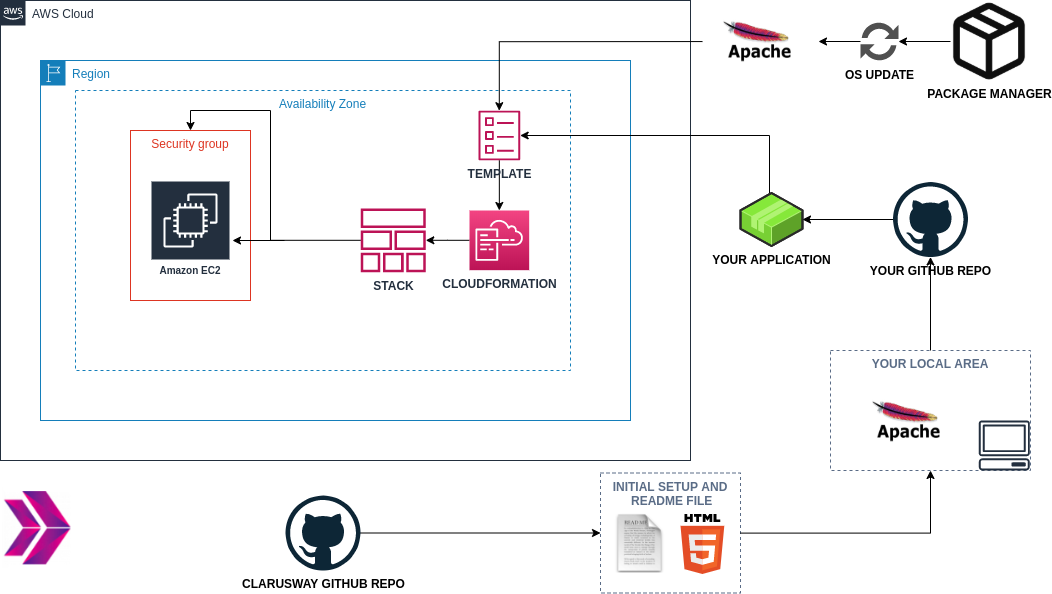
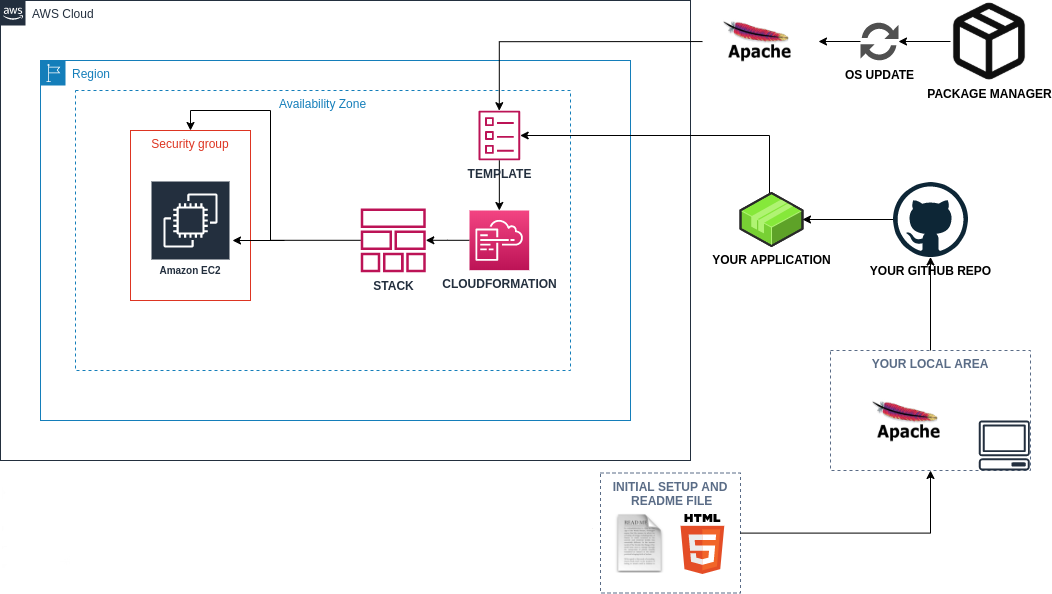
files modified

Changed region(s): [[0.2129, 0.8182, 0.5779, 1.0], [0.0, 0.8182, 0.0913, 0.9697]]

diff --git a/static-web/index.html b/static-web/index.html
@@ -4,7 +4,7 @@
 <head>
   <meta charset="UTF-8" />
   <meta name="viewport" content="width=device-width, initial-scale=1.0" />
-  <title>Clarusway Project - 001</title>
+  <title>Project - 001</title>
   <link rel="stylesheet" href="https://maxcdn.bootstrapcdn.com/bootstrap/3.4.1/css/bootstrap.min.css">
   <script src="https://ajax.googleapis.com/ajax/libs/jquery/3.5.1/jquery.min.js"></script>
   <script src="https://maxcdn.bootstrapcdn.com/bootstrap/3.4.1/js/bootstrap.min.js"></script>
@@ -14,7 +14,7 @@
       margin: auto;
     }
 
-    div {
+    h2 {
       margin-top: 100px;
       margin-bottom: 50px;
       margin-right: auto;
@@ -42,8 +42,6 @@
 </head>
 
 <body>
-
-  <div><img style="width:300px; height:100px" src="https://clarusway.com/wp-content/uploads/2022/12/clarusway-logo-black.png" /></div>
 
   <h2> Project: Abraham's Kittens Carousel</h2>
 

diff --git a/README.md b/README.md
@@ -85,15 +85,13 @@ Kittens Carousel is a static website application deployed with Apache Web Server
 
 ## Steps to Solution
   
-- Step 1: Download or clone project definition from `clarusway` repo on Github 
+- Step 1: Create project folder for local public repo on your pc
 
-- Step 2: Create project folder for local public repo on your pc
+- Step 2: Prepare a cloudformation template to deploy your app on EC2 Instance
 
-- Step 3: Prepare a cloudformation template to deploy your app on EC2 Instance
+- Step 3: Push your application into your own public repo on Github
 
-- Step 4: Push your application into your own public repo on Github
-
-- Step 5: Deploy your application on AWS Cloud using Cloudformation template to showcase your app within your team.
+- Step 4: Deploy your application on AWS Cloud using Cloudformation template to showcase your app within your team.
 
 ## Notes
 
